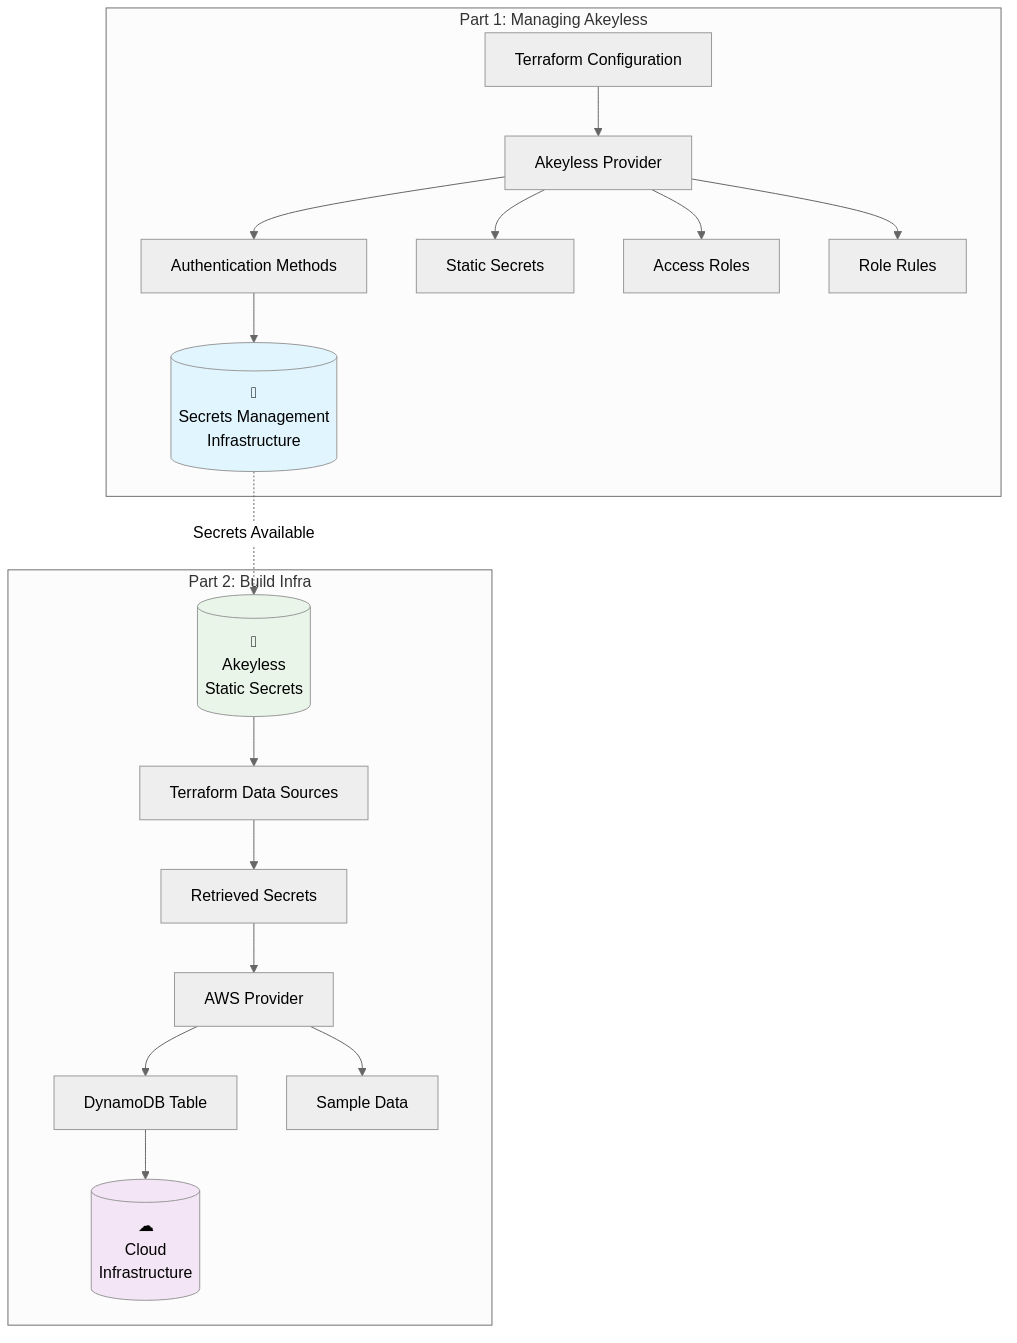
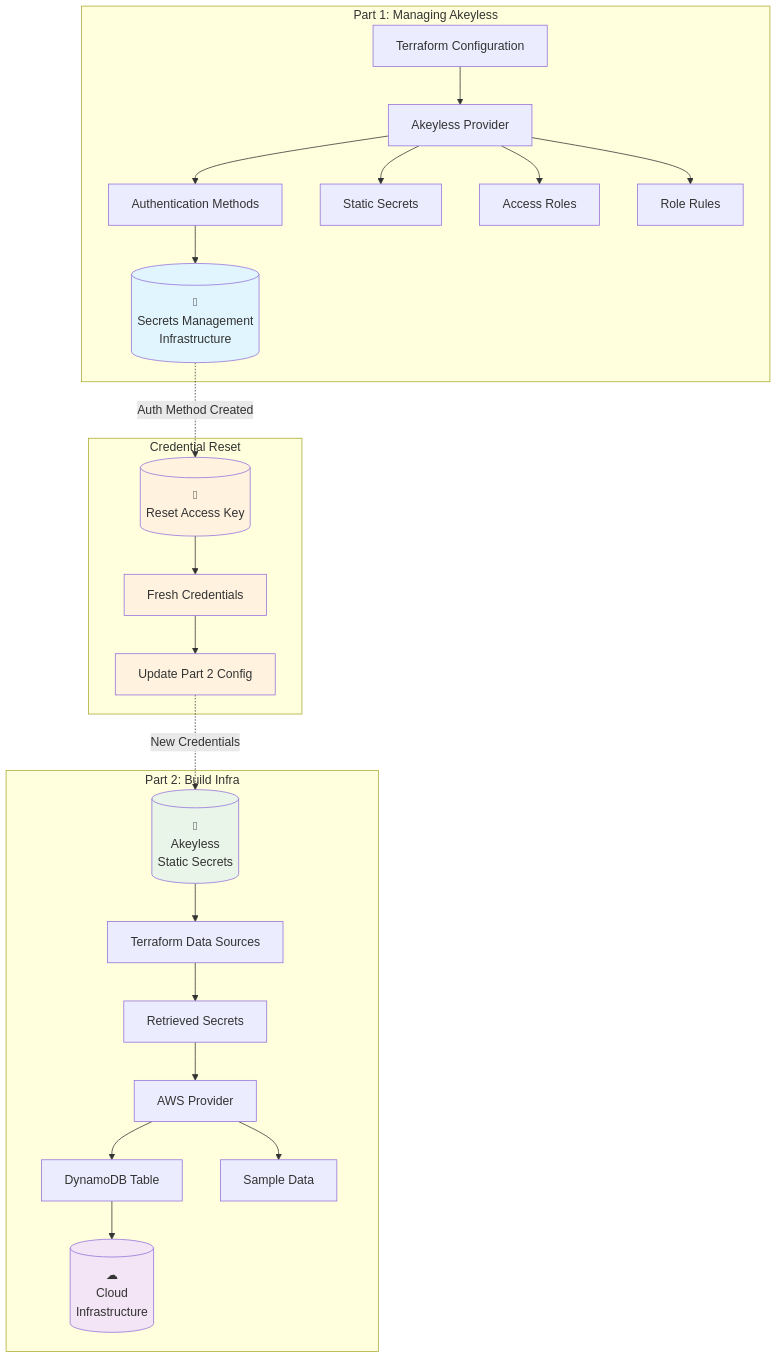
update the blog with new steps

diff --git a/akeyless-terraform-blog-post.md b/akeyless-terraform-blog-post.md
@@ -166,6 +166,9 @@ resource "akeyless_role_rule" "static_access" {
 
 This completes our access control setup, applying the least privilege principle to ensure only authorized access to our secrets secure storage.
 
+### Transition: Credential Reset for Security
+**Critical Step**: Between Part 1 and Part 2, we reset the access key for the newly created authentication method. This ensures that the credentials used for infrastructure deployment in Part 2 are never stored in Terraform's state file from Part 1, following security best practices for separating setup credentials from runtime access credentials.
+
 ### Part 2: Using Akeyless Secrets to Build Infrastructure  
 **Use Case**: Leveraging secret management tools for secure cloud services deployment
 
@@ -358,8 +361,11 @@ Our demonstration showcases a practical two-part workflow for managing sensitive
 ### Part 1: Infrastructure as Code for Static Secret Management (5-7 minutes)
 We use terraform code to configure our entire secrets management infrastructure, creating authentication methods with role based access control, and securely storing static secrets including database credentials, API keys, and configuration data. This infrastructure as code approach ensures reproducible, version-controlled secrets management while maintaining compliance with version control systems best practices.
 
+### Credential Reset Transition: Security Best Practice (1-2 minutes)
+After Part 1 completes, we reset the access key for the newly created authentication method in the Akeyless console. This critical step ensures that credentials used in Part 2 are never stored in Terraform's state file from Part 1, demonstrating proper separation between infrastructure setup credentials and runtime access credentials.
+
 ### Part 2: Secure Cloud Resources Deployment Using Static Secrets (6-8 minutes)  
-We read static secrets and configuration data from our secret management tools at runtime, then use this information to provision AWS cloud resources including DynamoDB tables with sample data. This demonstrates how sensitive information flows securely through your cloud infrastructure without ever being exposed in terraform configuration files or code repositories, providing superior protection against data breaches.
+Using the fresh credentials from the reset process, we read static secrets and configuration data from our secret management tools at runtime, then use this information to provision AWS cloud resources including DynamoDB tables with sample data. This demonstrates how sensitive information flows securely through your cloud infrastructure without ever being exposed in terraform configuration files or code repositories, providing superior protection against data breaches.
 
 ## Akeyless Architecture & Benefits: Advanced Secret Management Tools vs Traditional Solutions
 
@@ -414,6 +420,32 @@ Get started with Akeyless free for 30 days, no credit card required. The SaaS pl
 
 ### 3. Migration Support from HashiCorp Vault and AWS Secrets Manager
 Our solutions architects provide free consultation to help plan your migration from existing secret management tools. We've helped hundreds of teams transition from HashiCorp Vault, AWS Secrets Manager, and other traditional secrets manager platforms to our advanced secret rotation and role based access control system.
+
+## Demo Cleanup: Best Practices for Infrastructure Destruction
+
+After completing both parts of the demonstration, proper cleanup follows a specific order to prevent authentication failures and dependency issues:
+
+### Critical Cleanup Order for Terraform Secrets Management
+
+**Step 1: Destroy Part 2 Infrastructure First**
+```bash
+cd part2-infrastructure-deployment
+terraform destroy
+```
+This removes the AWS cloud resources (DynamoDB table and sample data) that depend on credentials and secrets from Part 1.
+
+**Step 2: Destroy Part 1 Infrastructure Second**  
+```bash
+cd ../part1-akeyless-setup
+terraform destroy
+```
+This removes the Akeyless secrets management infrastructure including authentication methods, static secrets, and access control policies.
+
+### Why This Order Matters for Managing Secrets
+
+Part 2 uses credentials and accesses secrets created in Part 1. If you destroy Part 1 first, the authentication needed for Part 2 cleanup will fail, leaving orphaned cloud resources. This demonstrates the dependency relationship between secrets management infrastructure and the applications that consume those secrets - a key consideration when managing sensitive data in production environments.
+
+This cleanup order reflects real-world best practices: always destroy consuming services before destroying the secret management tools and configuration data they depend on, ensuring complete infrastructure as code lifecycle management.
 
 ## Frequently Asked Questions (FAQ)
 

diff --git a/demo/README.md b/demo/README.md
@@ -106,12 +106,26 @@ This creates:
 - ✅ Static secrets (API key, DB config)
 
 
-### Step 4: Generate API Key for Part 2
+### Step 4: Reset and Retrieve API Credentials for Part 2
 
-In the Akeyless console:
-1. Go to the authentication method created in Part 1
-2. Generate new **Access ID** and **Access Key**
-3. Update `part2-infrastructure-deployment/terraform.tfvars` with these values
+After Part 1 completes, you need to reset the access key for the newly created authentication method to ensure credentials are not stored in Terraform state:
+
+**Reset Access Key via Akeyless Console:**
+1. Navigate to **Access** → **Auth Methods** in your Akeyless console
+2. Find the auth method created in Part 1: `/terraform-demo/auth-method`
+3. Click on the auth method and go to the **Access** tab
+4. Click **Reset Access Key** to generate new credentials
+5. Copy the new **Access ID** and **Access Key** 
+
+**Update Part 2 Configuration:**
+6. Edit `part2-infrastructure-deployment/terraform.tfvars`
+7. Update the following values with your new credentials:
+   ```hcl
+   akeyless_access_id  = "p-xxxxxx"  # New Access ID from reset
+   akeyless_access_key = "xxxxxxx"   # New Access Key from reset
+   ```
+
+> **Security Note**: We reset the access key to ensure that the credentials used in Part 2 are never stored in Terraform's state file from Part 1. This follows security best practices by keeping infrastructure setup credentials separate from runtime access credentials.
 
 ### Step 5: Run Part 2 - Infrastructure Deployment
 
@@ -195,9 +209,11 @@ demo/
 
 ### Part 2 Demo (6-8 minutes)
 
-1. **Generate API Key** (1 min)
-   - Show how to generate access credentials from Part 1 auth method
-   - Update terraform.tfvars
+1. **Reset and Retrieve API Credentials** (1-2 mins)
+   - Navigate to the auth method created in Part 1
+   - Reset the access key to generate fresh credentials
+   - Explain why we reset (security best practice to avoid state storage)
+   - Update terraform.tfvars with new credentials
 
 2. **Deploy Infrastructure** (4-5 mins)
    - Show the Terraform configuration that retrieves static secrets
@@ -212,19 +228,24 @@ demo/
 
 ## 🧹 Cleanup
 
-To destroy all resources created during the demo:
+To destroy all resources created during the demo, **follow this specific order** to avoid dependency issues:
 
 ```bash
-# Run the cleanup script
+# Run the cleanup script (automatically handles correct order)
 ./cleanup.sh
 
-# Or manually:
+# Or manually (IMPORTANT: Destroy Part 2 first, then Part 1):
+
+# Step 1: Destroy Part 2 Infrastructure (AWS resources)
 cd part2-infrastructure-deployment
 terraform destroy
 
+# Step 2: Destroy Part 1 Infrastructure (Akeyless resources)
 cd ../part1-akeyless-setup  
 terraform destroy
 ```
+
+> **⚠ Cleanup Order is Critical**: Always destroy Part 2 before Part 1. Part 2 uses credentials and accesses secrets created in Part 1, so destroying Part 1 first would break the authentication needed for Part 2 cleanup.
 
 ## 🚧 Troubleshooting
 
